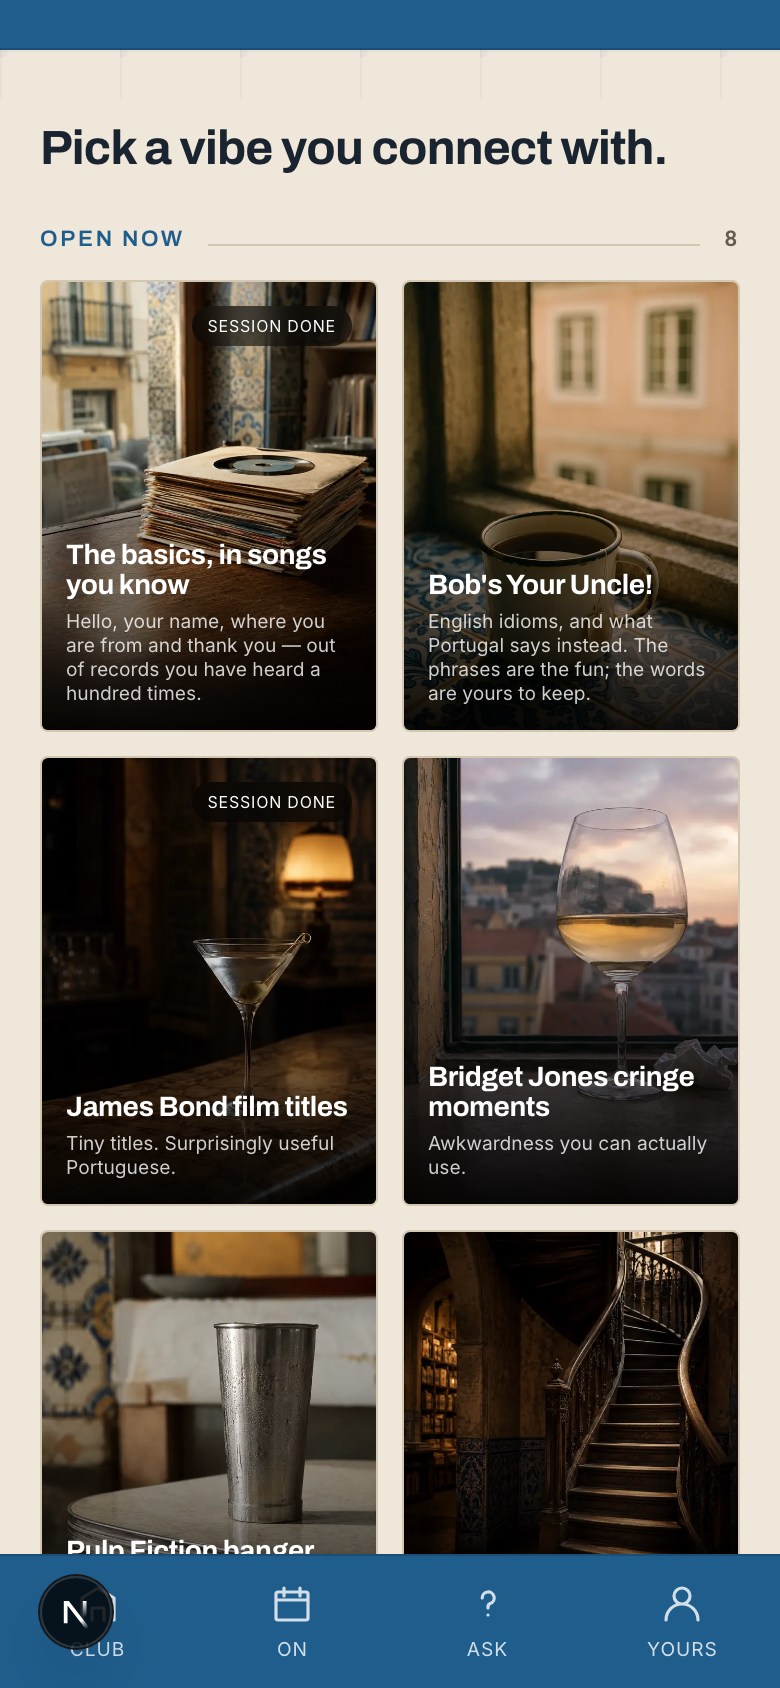
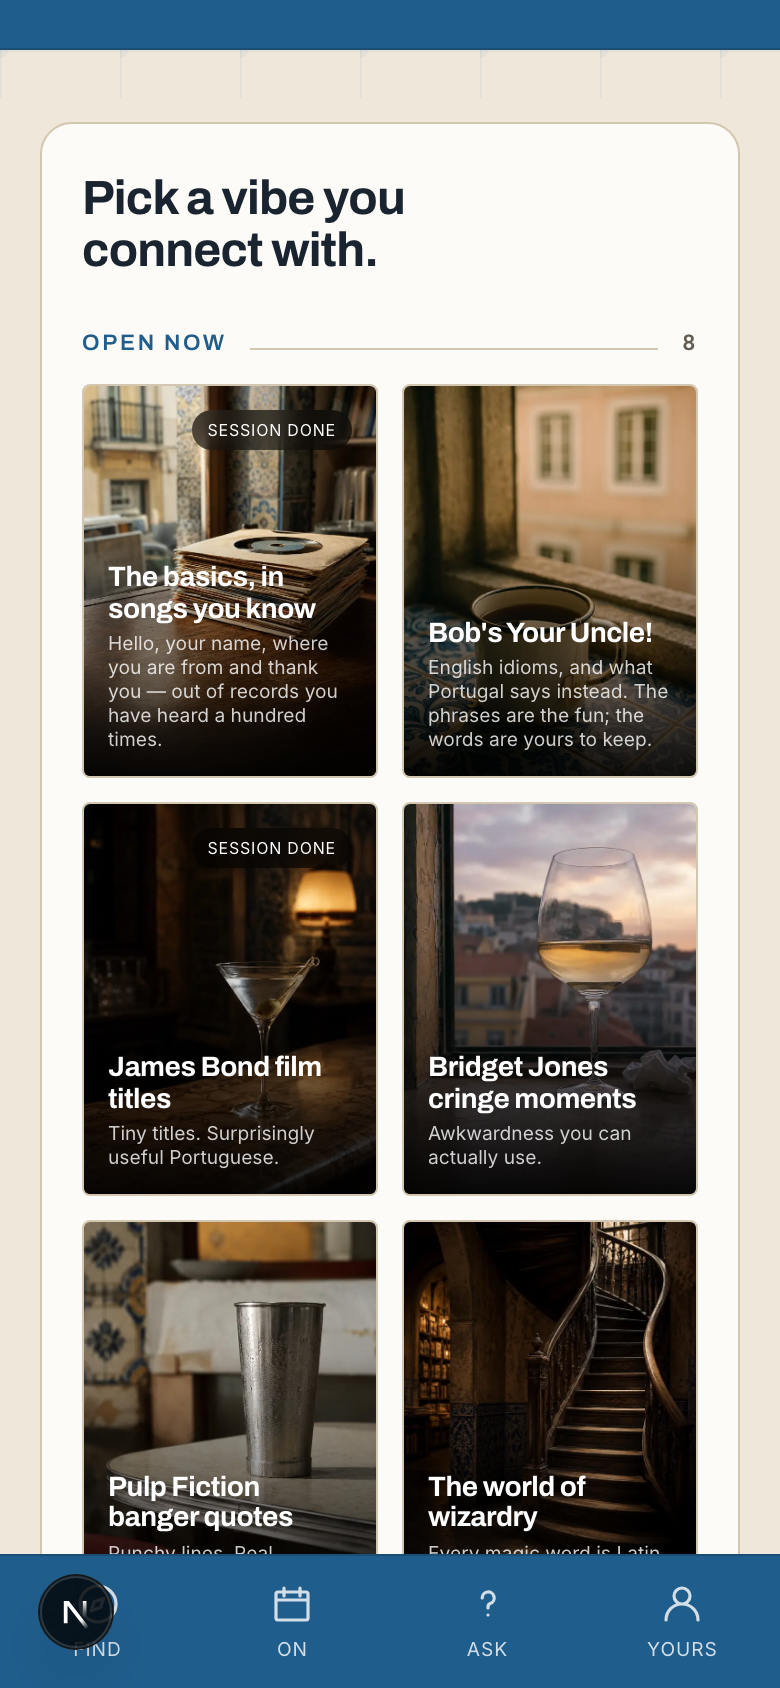
The walk now says what DUB is before where the buttons are
Sam: "it is too oblique at the moment and needs to lock into the proposition
above the process" — and separately, bluntly: "ex-pats are lazy, they defer to
speaking their native language with compatriots. This is about getting people
out of their comfort zone and actually trying to speak the language."

The fault was structural rather than a wording problem. Every step named a
control — FIND is for this, the cog is that, your boards are these — which is a
tour of the furniture. Somebody finished it knowing where the buttons were and
not what the product was FOR, and a walk-through that needs an explanation
afterwards has not worked.

So the first three steps make the argument and point at nothing, in the order of
the pitch Sam gives out loud: the wedge, then the Legend, then the table. ON,
ASK and the cog are gone — a stranger does not need a tab named before they have
said anything, and eleven steps that argue beat fourteen that label.

The third step says the thing is HARD, which the first draft did not. "Then you
use it on somebody" is a pleasantry; "then you have to actually use it, that is
the hard part" is the sentence somebody nods at, because they already know it is
true and a product that pretends otherwise has lost them. The relief arrives in
the same breath — everybody at that table is as uncomfortable as you — because
naming the discomfort without resolving it is just a warning, and that sentence
is the whole mechanic.
[…]

diff --git a/content/walk.ts b/content/walk.ts
@@ -91,10 +91,91 @@ export interface WalkStep {
   shot?: { src: string; alt: string }
   /** The last step's button, when 'GOT IT' is not the right words. */
   done?: string
+  /**
+   * A SECOND LINE, UNDER THE CAPTION, on the steps that are making an argument.
+   *
+   * Sam: "it is too oblique at the moment and needs to lock into the proposition above
+   * the process."
+   *
+   * The furniture steps need one sentence each — a tab is a tab. The steps that say what
+   * DUB is FOR need two: the claim, and the thing that makes it true. Without this the
+   * opening step would have to be one long sentence, which at display size is a paragraph
+   * on a photograph.
+   */
+  more?: string
 }
 
 export const WALK: WalkStep[] = [
   /*
+    WHAT DUB IS, BEFORE WHERE ANYTHING IS.
+
+    Sam: "it is too oblique at the moment and needs to lock into the proposition above the
+    process."
+
+    He is right and the fault was structural rather than a wording problem. Every step
+    here named a control — FIND is for this, the cog is that, your boards are these —
+    which is a tour of the furniture. Somebody finished it knowing where the buttons were
+    and not what the product was FOR, and a walk-through that has to be followed by an
+    explanation has not worked.
+
+    So the first three steps make the argument and the rest show the rooms. They point at
+    nothing, like the mentor picker, because what they are about is not on the screen: it
+    is the reason the screen exists.
+
+    THE ORDER IS THE PITCH SAM GIVES OUT LOUD. The correction first — everybody teaches
+    you the wrong Portuguese — then what DUB does instead, then the thing that makes it
+    worth doing, which is other people. Process after that.
+  */
+  {
+    id: 'why',
+    target: '',
+    say: 'Every big app teaches you Brazilian Portuguese. You live in Lisbon.',
+    more: 'DUB teaches the one they actually speak here — estás, telemóvel, uma bica.',
+  },
+  {
+    id: 'legend',
+    target: '',
+    say: 'So it starts with you. Not a pencil, not a train timetable.',
+    more:
+      'Thirteen questions about who you are, said out loud. Ten minutes, and you can introduce yourself to anybody.',
+    shot: {
+      src: '/walk/legend.png',
+      alt: 'The first Legend question — Como te chamas? — with a microphone under it and Say it out loud.',
+    },
+  },
+  {
+    id: 'table',
+    target: '',
+    /*
+      THE THIRD CLAIM, AND THE ONE THAT NAMES THE ACTUAL PROBLEM.
+
+      Sam, twice and more bluntly the second time: "ex-pats hang out together and never
+      feel a pressing need to learn the new language", and then — "ex-pats are lazy, they
+      defer to speaking their native language with compatriots. This is about getting
+      people out of their comfort zone and actually trying to speak the language."
+
+      So this step does not say "then you use it on somebody", which was the first draft
+      and is a pleasantry. It says the thing is HARD, because the person watching already
+      knows it is and a product that pretends otherwise has lost them. "That is the hard
+      part" is the sentence somebody nods at.
+
+      AND THE RELIEF HAS TO ARRIVE IN THE SAME BREATH. Naming the discomfort without
+      resolving it is just a warning. "Everybody there is as uncomfortable as you" is the
+      whole mechanic — it is why a table works where a resolution to try harder does not,
+      and it is the one thing no other app can say, because no other app knows what
+      anybody at the table can actually do.
+    */
+    say: 'Then you have to actually use it. That is the hard part.',
+    more:
+      'A table is six people who can already say the same things, and the first ten minutes are in Portuguese. Everybody there is as uncomfortable as you, which is what makes it possible.',
+    shot: {
+      src: '/walk/table.png',
+      alt: 'The table screen — two people at a pavement table in Lisbon at dusk, with the rule under it.',
+    },
+  },
+  /*
+    AND NOW THE ROOMS.
+
     THE BOTTOM RAIL, four tabs, and each one gets its own step rather than one step for
     the bar.
 
@@ -117,22 +198,6 @@ export const WALK: WalkStep[] = [
     */
     say: 'FIND is for when you have no plan — rooms, nights out and the words for them.',
     opens: ['What is on', 'Rooms', 'Drops'],
-  },
-  {
-    id: 'tab-on',
-    target: 'tab-on',
-    say: 'ON is the calendar. Real nights out, with the Portuguese you will need at them.',
-    opens: ['This week', 'Gigs', 'Save to your phone'],
-  },
-  {
-    /*
-      ASK is the one tab that is not a place — BottomNav says so in its own comment — and
-      the caption has to say that, because a person who taps it expecting a screen and
-      gets a panel over the one they were on has learnt that the bar is unreliable.
-    */
-    id: 'tab-ask',
-    target: 'tab-ask',
-    say: 'ASK opens on top of whatever you are doing. Say it in English, get it in Portuguese.',
   },
   {
     id: 'tab-yours',
@@ -214,11 +279,6 @@ export const WALK: WalkStep[] = [
     say: 'The inbox. The red number is what has landed since you last looked.',
     opens: ['Drops near you', 'What is new'],
   },
-  {
-    id: 'yours-settings',
-    target: 'yours-settings',
-    say: 'The cog is settings — your account, your language, and what the app may send you.',
-  },
 
   /*
     THE LOGO, LAST, AND THE CAPTION PROMISES THE CLUB.
@@ -245,6 +305,19 @@ export const WALK: WalkStep[] = [
     Second to last, before the mark. The walk ends on the way back into the Club, and the
     reason to go back is this.
   */
+  /*
+    AND THE TABLE ITSELF, pointed at on the screen rather than only claimed at the start.
+
+    The third step makes the argument; this one shows where it lives. Before NOTICED,
+    because a reason to speak to a person beats a report on how your speaking is going —
+    which is the same order the Yours screen itself uses.
+  */
+  {
+    id: 'table-door',
+    target: 'yours-table',
+    say: 'And this is where you find one. Six seats, a real bar, a real night.',
+    opens: ['Who is coming', 'What they can say'],
+  },
   {
     id: 'noticed',
     target: 'yours-noticed',

diff --git a/components/Profile.tsx b/components/Profile.tsx
@@ -19,6 +19,7 @@ import { askToKeep, getAvatar, loadAvatar, setAvatarFromFile } from '@/engine/av
 import { Walkthrough } from '@/components/Walkthrough'
 import { loadLearner, setDisplayName } from '@/engine/learner'
 import { useEntitlements } from '@/engine/useEntitlements'
+import { TABLE } from '@/content/table'
 import { Ticker } from '@/components/Ticker'
 import { useLearner } from '@/engine/useLearner'
 import { useRestore } from '@/engine/useRestore'
@@ -568,6 +569,32 @@ export function Profile() {
             components/Noticed.tsx — and putting any of them here would be the page twice,
             with the half that fits competing against the half that does not.
           */}
+          {/*
+            THE TABLE, ABOVE NOTICED, BECAUSE IT IS THE ONLY THING ON THIS SCREEN WITH
+            OTHER PEOPLE IN IT.
+
+            Sam: "we need to add a Table link in Yours."
+
+            Everything else on Yours is the learner alone — their boards, their Legend,
+            what DUB noticed about them. This is the one door out to anybody else, and it
+            is the answer to the problem Sam named: "ex-pats hang out together and never
+            feel a pressing need to learn the new language." So it sits above the teacher
+            rather than below it, because a reason to speak Portuguese to a person beats
+            a report on how your Portuguese is going.
+
+            IT SAYS THE RULE RATHER THAN THE FEATURE. "A table" means nothing; the first
+            ten minutes being in Portuguese is the whole proposition and it fits on a
+            card. See content/table.ts.
+          */}
+          <Link
+            href="/table"
+            data-testid="yours-table"
+            className="tap-target flex flex-col gap-1 rounded-2xl border border-line bg-bg-elev px-5 py-6 transition hover:border-accent/50"
+          >
+            <span className="eyebrow text-telha">A TABLE</span>
+            <span className="text-base leading-relaxed text-fg">{TABLE.rule}</span>
+            <span className="mt-1 text-sm leading-relaxed text-muted">{TABLE.what}</span>
+          </Link>
           <Link
             href="/noticed"
             data-testid="yours-noticed"

diff --git a/components/Walkthrough.tsx b/components/Walkthrough.tsx
@@ -527,6 +527,20 @@ export function Walkthrough({ onDone }: { onDone: () => void }) {
           */}
           <p className="t-line text-white">{step.say}</p>
           {/*
+            THE SECOND LINE, on the steps that are making an argument rather than naming a
+            control. See `more` in content/walk.ts: the furniture needs one sentence and
+            the proposition needs two, and forcing the claim into a single display-sized
+            line would make it a paragraph on a photograph.
+
+            Smaller and at 85% white, so it reads as the thing under the headline rather
+            than as a second headline competing with it.
+          */}
+          {step.more ? (
+            <p data-testid="walk-more" className="-mt-3 text-base leading-relaxed text-white/85">
+              {step.more}
+            </p>
+          ) : null}
+          {/*
             THE CHOICE, WHERE A STEP ASKS ONE — see `pick` in content/walk.ts.
 
             Four people, each saying THE SAME SENTENCE in their own voice, so the choice is
